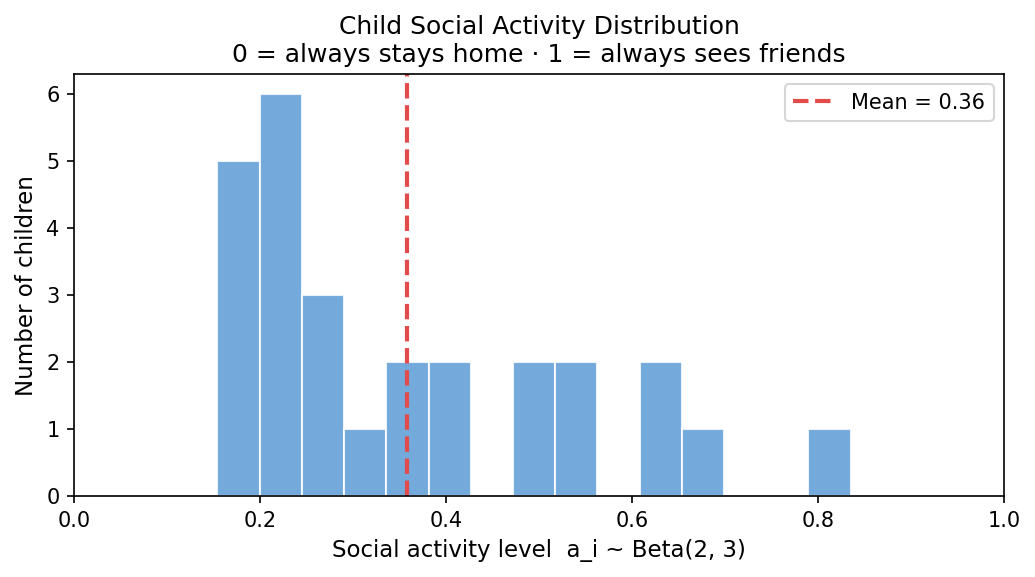
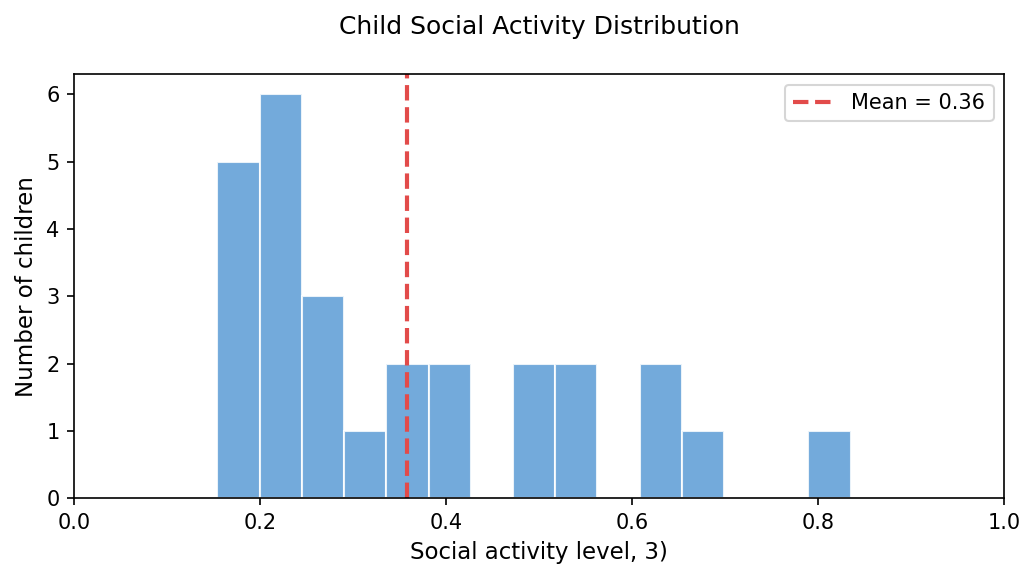
chart name changes"

diff --git a/Community layer changes.py b/Community layer changes.py
@@ -1,23 +1,19 @@
 """
 Temporal Structured SIRL Network Model
-========================================
-Complete implementation including everything discussed:
-
   Mathematical model:
     G_t = (V, E_H ∪ E_W(t) ∪ E_S(t) ∪ E_N ∪ E_SW(t))
 
   Edge layers:
-    E_H       household edges        — always active             (purple)
-    E_W(t)    workplace edges        — weekdays only             (blue)
-    E_S(t)    school edges           — weekdays only, β scaled   (green)
-    E_N       neighbor edges         — all week, low β           (orange)
-    E_SW(t)   social weekend edges   — weekends only             (amber)
+    E_H       household edges        — always active             
+    E_W(t)    workplace edges        — weekdays only            
+    E_S(t)    school edges           — weekdays only, β scaled  
+    E_N       neighbor edges         — all week, low β           
+    E_SW(t)   social weekend edges   — weekends only             
 
   Disease states (SIRL):
     S  susceptible
     I  infected — still going out, all edges active
     L  on sick leave — work/school/social_weekend edges OFF,
-                       household/neighbor edges STILL ACTIVE
     R  recovered
 
   State transitions:
@@ -109,11 +105,11 @@ RANDOM_SEED           = NONE
 
 # --- Visual colors ---
 LAYER_COLORS = {
-    "household"      : "#E6945E",  # orange
-    "work"           : "#EE9AFD",  # dark blue
-    "school"         : "#D4537E",  # pink
-    "neighbor"       : "#7EC8A0",  # pale green
-    "social_weekend" : "#FE838B",  # purple
+    "household"      : "#E63946",  # strong red-pink
+    "work"           : "#1657B3",  # dark navy
+    "school"         : "#F4A261",  # warm orange
+    "neighbor"       : "#2A9D8F",  # teal
+    "social_weekend" : "#8338EC",  # vivid purple
 }
 
 BETA_BY_LAYER = {
@@ -597,11 +593,11 @@ def draw_static_network(G, pos):
                 for l, c in LAYER_COLORS.items()]
     shape_leg = [
         Line2D([0],[0], marker="s", color="w", markerfacecolor="#777",
-               markersize=9, label="■  Worker"),
+               markersize=9, label=" Worker"),
         Line2D([0],[0], marker="^", color="w", markerfacecolor="#777",
-               markersize=9, label="▲  Child"),
+               markersize=9, label=" Child"),
         Line2D([0],[0], marker="o", color="w", markerfacecolor="#777",
-               markersize=9, label="●  Stay-home adult"),
+               markersize=9, label=" Stay-home adult"),
     ]
     fig.legend(handles=edge_leg + shape_leg, loc="lower center",
                ncol=4, fontsize=9, framealpha=0.9,
@@ -658,11 +654,11 @@ def animate_sir(G, pos, states_over_time, history):
     ]
     shape_legend = [
         Line2D([0],[0], marker="s", color="w", markerfacecolor="#888",
-               markersize=9, label="■ Worker"),
+               markersize=9, label="Worker"),
         Line2D([0],[0], marker="^", color="w", markerfacecolor="#888",
-               markersize=9, label="▲ Child"),
+               markersize=9, label="Child"),
         Line2D([0],[0], marker="o", color="w", markerfacecolor="#888",
-               markersize=9, label="● Stay-home"),
+               markersize=9, label="Stay-home"),
     ]
     state_legend = [
         mpatches.Patch(color=STATE_COLORS["S"], label="Susceptible"),
@@ -773,7 +769,7 @@ def animate_sir(G, pos, states_over_time, history):
         ax_sir.legend(fontsize=9)
     ctrl = {"playing": True}
 
-    ani_interval = 280
+    ani_interval = 500
 
     ani = animation.FuncAnimation(
         fig, update,
@@ -863,9 +859,9 @@ def plot_sir_curves(history):
     handles = [
         Line2D([0],[0], color=STATE_COLORS["S"], lw=2, label="Susceptible"),
         Line2D([0],[0], color=STATE_COLORS["I"], lw=2,
-               label="Infected (still out)"),
+               label="Infected"),
         Line2D([0],[0], color=STATE_COLORS["L"], lw=2, ls="--",
-               label="Sick leave (home)"),
+               label="Sick leave"),
         Line2D([0],[0], color=STATE_COLORS["R"], lw=2, label="Recovered"),
         mpatches.Patch(color="#EBEBEB", alpha=0.7, label="Weekend"),
     ]
@@ -1036,11 +1032,10 @@ def plot_child_activity_distribution(G):
     ax.axvline(mean_a, color=STATE_COLORS["I"], lw=2, ls="--",
                label=f"Mean = {mean_a:.2f}")
     ax.set_xlabel(
-        f"Social activity level  a_i ~ Beta({CHILD_ACTIVITY_ALPHA}, "
+        f"Social activity level, "
         f"{CHILD_ACTIVITY_BETA})", fontsize=11)
     ax.set_ylabel("Number of children", fontsize=11)
-    ax.set_title("Child Social Activity Distribution\n"
-                 "0 = always stays home · 1 = always sees friends",
+    ax.set_title("Child Social Activity Distribution\n",
                  fontsize=12)
     ax.legend(fontsize=10)
     ax.set_xlim(0, 1)
@@ -1126,9 +1121,8 @@ def plot_contact_intensity(G):
            color="#D85A30", alpha=0.85)
     ax.set_xticks(x)
     ax.set_xticklabels(labels, fontsize=11)
-    ax.set_ylabel("Expected active contacts  λ_i(t)", fontsize=11)
-    ax.set_title("Contact Intensity by Node Type and Time Phase\n"
-                 "λ_i(t) = Σ_j  p_ij(t)", fontsize=12)
+    ax.set_ylabel("Expected active contacts", fontsize=11)
+    ax.set_title("Contact Intensity by Node Type and Time Phase\n", fontsize=12)
     ax.legend(fontsize=10)
     plt.tight_layout()
     plt.savefig("contact_intensity.png", dpi=150, bbox_inches="tight")
@@ -1150,8 +1144,7 @@ def plot_layer_breakdown(layer_totals):
                      edgecolor="white", linewidth=0.8)
     ax.bar_label(bars, padding=3, fontsize=10)
     ax.set_ylabel("Transmission events", fontsize=11)
-    ax.set_title("Transmission Events by Contact Layer\n"
-                 "Which contact type drove the most infections?",
+    ax.set_title("Transmission Events by Contact Layer\n",
                  fontsize=12)
     ax.set_ylim(0, max(counts) * 1.2 if counts else 1)
     plt.tight_layout()
